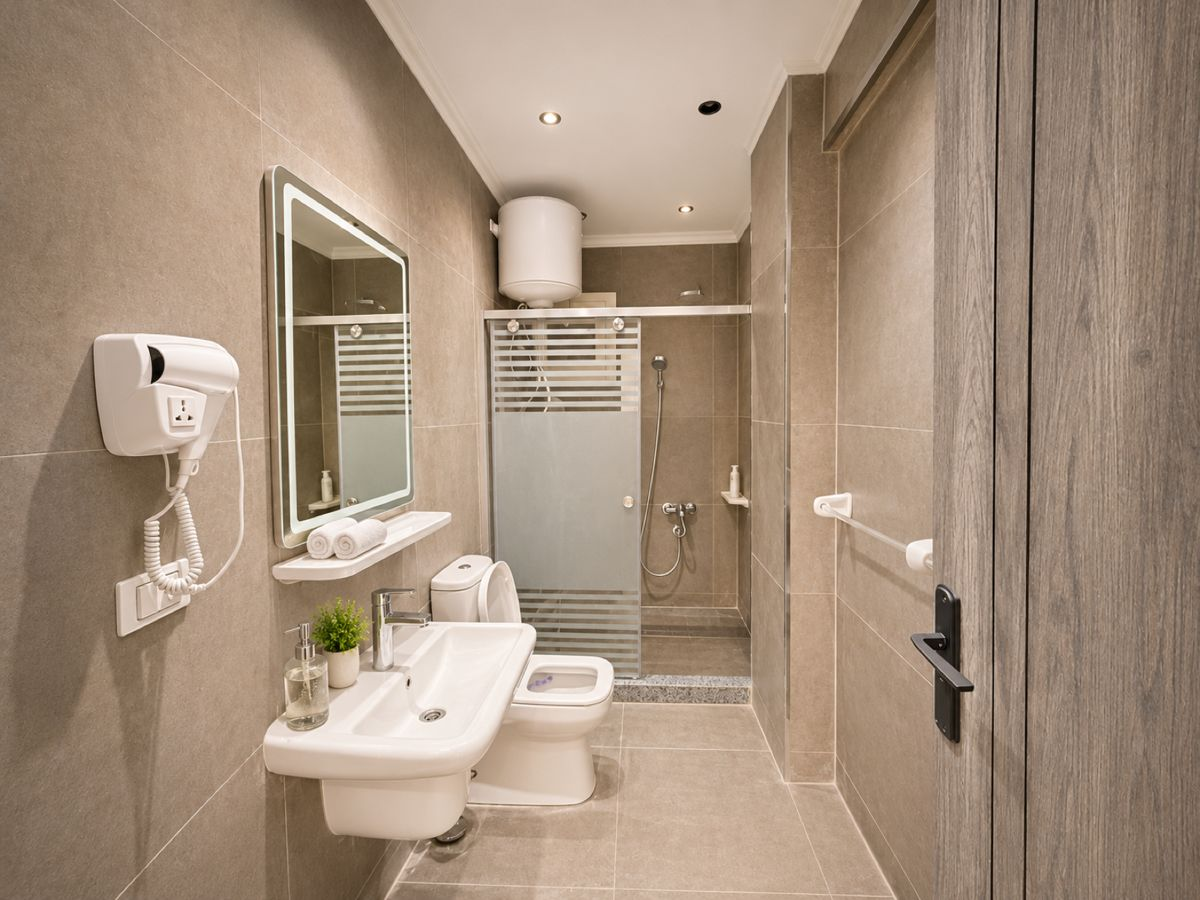
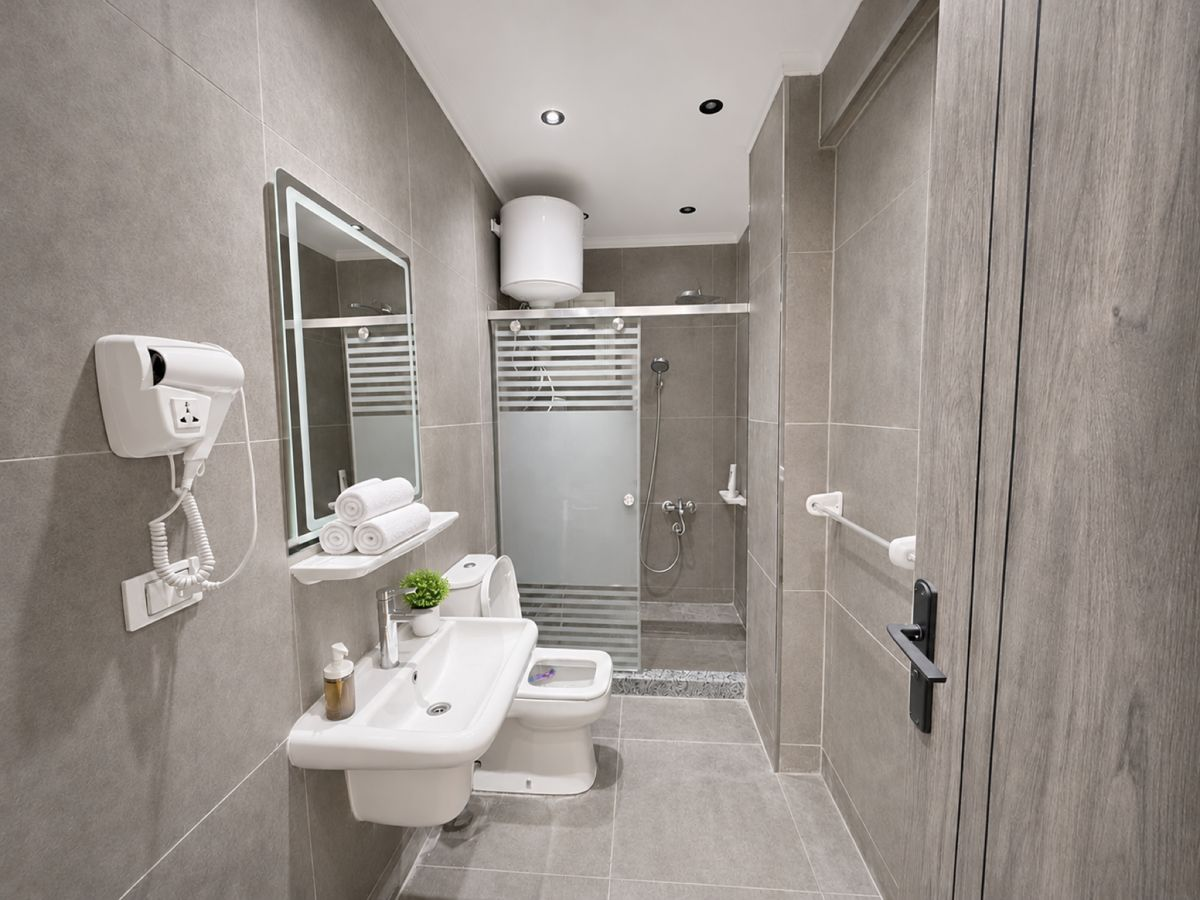
Four apartments by layout, guests up to 20, breakfast option

diff --git a/index.html b/index.html
@@ -66,6 +66,9 @@ a:focus-visible,button:focus-visible{outline:2px solid var(--acc);outline-offset
 .tabs button.on{background:var(--ink);color:#fff}
 .gal2{display:flex;gap:10px;overflow-x:auto;scroll-snap-type:x mandatory;padding:0 20px;scroll-padding:0 20px;scrollbar-width:none;transition:opacity .25s ease}
 .gal2 img{flex:0 0 86%;width:86%;height:auto;aspect-ratio:4/5;border-radius:18px;scroll-snap-align:start;outline:1px solid rgba(0,0,0,.07);outline-offset:-1px}
+.bf{display:flex;align-items:center;gap:12px;margin-top:16px;padding:15px 16px;background:var(--sand);border-radius:16px;font-size:14px;font-weight:500}
+.bf input{width:22px;height:22px;accent-color:var(--acc);flex:none;margin:0}
+.bf b{margin-inline-start:auto;font-weight:600;white-space:nowrap}
 .cnt{display:flex;justify-content:space-between;font-size:13px;color:var(--mut);padding:12px 20px 0}
 .atx{padding:16px 20px 0}
 .atx h3{font-family:Fraunces,serif;font-weight:500;font-size:26px}
@@ -127,7 +130,7 @@ a:focus-visible,button:focus-visible{outline:2px solid var(--acc);outline-offset
     <div class="dates">
       <label><span data-t="ci"></span><input type="date" id="ci"></label>
       <label><span data-t="co"></span><input type="date" id="co"></label>
-      <label><span data-t="gs"></span><select id="gs"><option>1</option><option selected>2</option><option>3</option><option>4</option><option>5</option></select></label>
+      <label><span data-t="gs"></span><select id="gs"></select></label>
     </div>
     <a class="btn wa wal" data-t="book" href="#"></a>
     <p class="note" data-t="note"></p>
@@ -150,11 +153,12 @@ a:focus-visible,button:focus-visible{outline:2px solid var(--acc);outline-offset
 
 <section class="apt" id="apt">
   <h2 class="rv" data-t="h2b"></h2>
-  <div class="tabs" id="tabs"><button data-i="0" data-t="tab0"></button><button data-i="1" data-t="tab1"></button><button data-i="2" data-t="tab2"></button></div>
+  <div class="tabs" id="tabs"><button data-i="0" data-t="tab0"></button><button data-i="1" data-t="tab1"></button><button data-i="2" data-t="tab2"></button><button data-i="3" data-t="tab3"></button></div>
   <div class="gal2" id="gal"></div>
   <div class="cnt"><span id="cnt"></span><span data-t="swipe"></span></div>
   <div class="atx"><h3 id="ct"></h3><div class="facts" id="cf"></div>
     <div class="pr"><div><b id="cp"></b> <span class="mut" data-t="pn"></span></div><a class="btn wal" id="cb" data-t="chk" href="#"></a></div>
+    <label class="bf"><input type="checkbox" id="bfc"><span data-t="bfl"></span><b id="bfp"></b></label>
   </div>
 </section>
 
@@ -182,7 +186,7 @@ a:focus-visible,button:focus-visible{outline:2px solid var(--acc);outline-offset
   <p class="mut rv" data-t="langs"></p>
   <a class="btn wa wal rv" data-t="book" href="#"></a>
   <a class="tel" href="tel:+201556557076" dir="ltr">+20 155 655 7076</a>
-  <div class="pic"><img data-s="g_b" alt=""></div>
+  <div class="pic"><img data-s="m_gost" alt=""></div>
   <footer class="foot">
     <div class="logo">Best Apart<small>CAIRO</small></div>
     <div data-t="addr"></div>
@@ -196,22 +200,22 @@ a:focus-visible,button:focus-visible{outline:2px solid var(--acc);outline-offset
 
 <script>
 const T={en:{h1:'Family apartments in New Cairo',n1:'from $45',n1s:'per night',n2:'up to 5',n2s:'guests',n3:'30 min',n3s:'to airport',ci:'Check-in',co:'Check-out',gs:'Guests',book:'Book on WhatsApp',note:'Pay on arrival · free cancellation',
-h2a:'Everything a family needs is already here',m_wifi:'Free high-speed Wi-Fi',m_kit:'Full kitchen',m_wash:'Washing machine',m_ac:'Air conditioning',m_bath:'Two bathrooms in 2BR',m_tv:'TV',m_safe:'Safe',m_mat:'Prayer mat',m_iron:'Iron and hair dryer',m_balc:'Balcony in 2BR',tab0:'One Bedroom',tab1:'Two Bedroom',tab2:'Two Bedroom, layout 2',swipe:'Swipe for more photos',onmap:'On the map',
+h2a:'Everything a family needs is already here',m_wifi:'Free high-speed Wi-Fi',m_kit:'Full kitchen',m_wash:'Washing machine',m_ac:'Air conditioning',m_bath:'Two bathrooms in 2BR',m_tv:'Smart TV',m_safe:'Safe',m_mat:'Prayer mat',m_iron:'Iron and hair dryer',m_balc:'Balcony in 2BR',tab0:'One Bedroom',tab1:'One Bedroom 2',tab2:'Two Bedroom · Mosque view',tab3:'Two Bedroom · Courtyard view',bfl:'Add breakfast, $10 per person',bfs:'breakfast for',mb:'Breakfast',yes:'yes',swipe:'Swipe for more photos',onmap:'On the map',
 h2b:'Choose your apartment',pn:'per night',chk:'Check dates',
 h2c:'30 minutes from Cairo airport',gm:'Open in Google Maps',min:'min',d1:'Cairo airport',d2:'Pyramids',d3:'Reception',mall:'Right next to us, plus a market',
 h2d:'Pay when you arrive',c1:'Free cancellation',c1s:'No penalty, any time',c2:'No deposit',c2s:'No prepayment online',r1:'Minimum stay',r1v:'1 night',r2:'A week or longer',r2v:'10% off',r3:'Children',r3v:'welcome',r4:'Breakfast',r4v:'$10 per person',r5:'Smoking',r5v:'not allowed in the rooms',
 h2e:'Tell us your dates, we reply in minutes',langs:'We speak Arabic, English and Chinese',addr:'New Cairo, Cairo, Egypt',call:'Call us',lic:'Licensed for short-term rentals',
-one:'One Bedroom',two:'Two Bedroom',two2:'Two Bedroom, layout 2',x1:['up to 3 guests','1 bedroom','1 bathroom','kitchen'],x2:['up to 5 guests','2 bedrooms','2 bathrooms','kitchen','balcony'],
+one:'One Bedroom',oneb:'One Bedroom 2',two:'Two Bedroom, mosque view',two2:'Two Bedroom, courtyard view',x1:['up to 3 guests','1 bedroom','1 bathroom','kitchen'],x2:['up to 5 guests','2 bedrooms','2 bathrooms','kitchen','balcony'],
 m0:'Hello, I would like to book an apartment at Best Apart Cairo.',mci:'Check-in',mco:'Check-out',mg:'Guests',ma:'Apartment'},
 ar:{h1:'شقق عائلية في القاهرة الجديدة',n1:'من 45$',n1s:'لليلة',n2:'حتى 5',n2s:'ضيوف',n3:'30 دقيقة',n3s:'إلى المطار',ci:'الوصول',co:'المغادرة',gs:'الضيوف',book:'احجز عبر واتساب',note:'الدفع عند الوصول · إلغاء مجاني',
-h2a:'كل ما تحتاجه العائلة موجود هنا',m_wifi:'واي فاي مجاني عالي السرعة',m_kit:'مطبخ كامل',m_wash:'غسالة ملابس',m_ac:'تكييف',m_bath:'حمّامان في شقة الغرفتين',m_tv:'تلفاز',m_safe:'خزنة',m_mat:'سجادة صلاة',m_iron:'مكواة ومجفف شعر',m_balc:'شرفة في شقة الغرفتين',tab0:'غرفة نوم',tab1:'غرفتا نوم',tab2:'غرفتا نوم، تصميم 2',swipe:'اسحب لمزيد من الصور',onmap:'على الخريطة',
+h2a:'كل ما تحتاجه العائلة موجود هنا',m_wifi:'واي فاي مجاني عالي السرعة',m_kit:'مطبخ كامل',m_wash:'غسالة ملابس',m_ac:'تكييف',m_bath:'حمّامان في شقة الغرفتين',m_tv:'تلفاز ذكي',m_safe:'خزنة',m_mat:'سجادة صلاة',m_iron:'مكواة ومجفف شعر',m_balc:'شرفة في شقة الغرفتين',tab0:'غرفة نوم',tab1:'غرفة نوم 2',tab2:'غرفتا نوم · إطلالة على المسجد',tab3:'غرفتا نوم · إطلالة على الفناء',bfl:'أضف الإفطار، 10$ للشخص',bfs:'إفطار لعدد',mb:'الإفطار',yes:'نعم',swipe:'اسحب لمزيد من الصور',onmap:'على الخريطة',
 h2b:'اختر شقتك',pn:'لليلة',chk:'تحقق من التواريخ',
 h2c:'30 دقيقة من مطار القاهرة',gm:'افتح في خرائط جوجل',min:'دقيقة',d1:'مطار القاهرة',d2:'الأهرامات',d3:'الاستقبال',mall:'بجوارنا مباشرة، مع سوق قريب',
 h2d:'ادفع عند الوصول',c1:'إلغاء مجاني',c1s:'بدون غرامة في أي وقت',c2:'بدون تأمين',c2s:'بدون دفع مسبق عبر الإنترنت',r1:'أقل مدة إقامة',r1v:'ليلة واحدة',r2:'أسبوع أو أكثر',r2v:'خصم 10%',r3:'الأطفال',r3v:'مرحّب بهم',r4:'الإفطار',r4v:'10$ للشخص',r5:'التدخين',r5v:'ممنوع داخل الغرف',
 h2e:'أرسل لنا تواريخك ونرد خلال دقائق',langs:'نتحدث العربية والإنجليزية والصينية',addr:'القاهرة الجديدة، القاهرة، مصر',call:'اتصل بنا',lic:'مرخّص للإيجار قصير المدة',
-one:'غرفة نوم',two:'غرفتا نوم',two2:'غرفتا نوم، تصميم 2',x1:['حتى 3 ضيوف','غرفة نوم','حمّام','مطبخ'],x2:['حتى 5 ضيوف','غرفتا نوم','حمّامان','مطبخ','شرفة'],
+one:'غرفة نوم',oneb:'غرفة نوم 2',two:'غرفتا نوم، إطلالة على المسجد',two2:'غرفتا نوم، إطلالة على الفناء',x1:['حتى 3 ضيوف','غرفة نوم','حمّام','مطبخ'],x2:['حتى 5 ضيوف','غرفتا نوم','حمّامان','مطبخ','شرفة'],
 m0:'مرحباً، أود حجز شقة في Best Apart Cairo.',mci:'الوصول',mco:'المغادرة',mg:'الضيوف',ma:'الشقة'}};
-const SRC={balkon:'img/balkon.jpg',fasad2:'img/fasad2.jpg',finiki:'img/finiki.jpg',g_1br:'img/g_1br.jpg',g_b:'img/g_b.jpg',g_c:'img/g_c.jpg',hero:'img/hero.jpg',kuh:'img/kuh.jpg',s_1br:'img/s_1br.jpg',seif:'img/seif.jpg',spal:'img/spal.jpg',spal2:'img/spal2.jpg',van:'img/van.jpg'};document.querySelectorAll('img[data-s]').forEach(i=>i.src=SRC[i.dataset.s]);
+const SRC={balkon:'img/balkon.jpg',fasad2:'img/fasad2.jpg',finiki:'img/finiki.jpg',g_1br:'img/g_1br.jpg',g_c:'img/g_c.jpg',hero:'img/hero.jpg',kuh:'img/kuh.jpg',s_1br:'img/s_1br.jpg',seif:'img/seif.jpg',spal:'img/spal.jpg',spal2:'img/spal2.jpg',van:'img/van.jpg',m_gost:'img/m_gost.jpg',m_vid:'img/m_vid.jpg',m_kuh:'img/m_kuh.jpg',m_twin:'img/m_twin.jpg',m_dbl:'img/m_dbl.jpg',m_van:'img/m_van.jpg',a_gost:'img/a_gost.jpg',a_kuh:'img/a_kuh.jpg',a_van:'img/a_van.jpg',a_spal:'img/a_spal.jpg',b_kuh:'img/b_kuh.jpg',b_van:'img/b_van.jpg'};document.querySelectorAll('img[data-s]').forEach(i=>i.src=SRC[i.dataset.s]);
 let L='en';const $=id=>document.getElementById(id);
 const clamp=(v,a=0,b=1)=>Math.min(b,Math.max(a,v));
 const prog=el=>{const r=el.getBoundingClientRect();return clamp(-r.top/(r.height-innerHeight))};
@@ -228,23 +232,26 @@ function drawFly(){
 }
 
 const apts=[
- {t:'one',x:'x1',p:'$45',g:['g_1br','s_1br','kuh','van']},
- {t:'two',x:'x2',p:'$85',g:['hero','spal','spal2','kuh','van','balkon']},
- {t:'two2',x:'x2',p:'$85',g:['g_b','g_c','spal2','spal','van','balkon']}];
-const gal=$('gal'),tabs=[...document.querySelectorAll('#tabs button')];let cur=1;
+ {t:'one',x:'x1',p:45,g:['a_gost','a_spal','a_kuh','a_van']},
+ {t:'oneb',x:'x1',p:45,g:['g_1br','s_1br','b_kuh','b_van']},
+ {t:'two',x:'x2',p:85,g:['m_gost','m_twin','m_dbl','m_kuh','m_van','m_vid']},
+ {t:'two2',x:'x2',p:85,g:['hero','g_c','spal','spal2','kuh','van','balkon']}];
+const gal=$('gal'),tabs=[...document.querySelectorAll('#tabs button')];let cur=2;
 function cnt(){const w=gal.firstChild?gal.firstChild.offsetWidth+10:1,i=Math.min(apts[cur].g.length-1,Math.round(Math.abs(gal.scrollLeft)/w));$('cnt').textContent=(i+1)+' / '+apts[cur].g.length}
 function fillCard(){const f=apts[cur],t=T[L];
   gal.innerHTML=f.g.map(n=>`<img src="${SRC[n]}" alt="">`).join('');gal.scrollLeft=0;
-  $('ct').textContent=t[f.t];$('cf').innerHTML=t[f.x].map(x=>`<span>${x}</span>`).join('');$('cp').textContent=f.p;
+  $('ct').textContent=t[f.t];$('cf').innerHTML=t[f.x].map(x=>`<span>${x}</span>`).join('');$('cp').textContent='$'+f.p;bf();
   tabs.forEach(c=>c.classList.toggle('on',+c.dataset.i===cur));cnt();links();}
 gal.addEventListener('scroll',cnt,{passive:true});
 tabs.forEach(c=>c.onclick=()=>{cur=+c.dataset.i;gal.style.opacity=0;setTimeout(()=>{fillCard();gal.style.opacity=1},calm?0:160)});
 
 const ci=$('ci'),co=$('co'),gs=$('gs'),iso=d=>d.toISOString().slice(0,10),day=864e5;
-ci.min=iso(new Date());co.min=iso(new Date(Date.now()+day));
-ci.onchange=()=>{if(ci.value){const n=iso(new Date(new Date(ci.value).getTime()+day));co.min=n;if(!co.value||co.value<n)co.value=n}links()};co.onchange=gs.onchange=()=>links();
+gs.innerHTML=Array.from({length:20},(_,i)=>`<option${i===1?' selected':''}>${i+1}</option>`).join('');ci.min=iso(new Date());co.min=iso(new Date(Date.now()+day));
+ci.onchange=()=>{if(ci.value){const n=iso(new Date(new Date(ci.value).getTime()+day));co.min=n;if(!co.value||co.value<n)co.value=n}links()};co.onchange=()=>links();gs.onchange=()=>{bf();links()};
+const bfc=$('bfc');function bf(){$('bfp').textContent=bfc.checked?'+ $'+(10*gs.value):''}
+bfc.onchange=()=>{bf();links()};
 function links(){const t=T[L];let m=t.m0;
-  if(ci.value)m+='\n'+t.mci+': '+ci.value;if(co.value)m+='\n'+t.mco+': '+co.value;m+='\n'+t.mg+': '+gs.value;
+  if(ci.value)m+='\n'+t.mci+': '+ci.value;if(co.value)m+='\n'+t.mco+': '+co.value;m+='\n'+t.mg+': '+gs.value;if(bfc.checked)m+='\n'+t.mb+': '+t.yes;
   document.querySelectorAll('.wal').forEach(a=>{let x=m;if(a.id==='cb')x+='\n'+t.ma+': '+t[apts[cur].t];a.href='https://wa.me/201556557076?text='+encodeURIComponent(x)})}
 
 function setLang(l){L=l;document.documentElement.lang=l;document.documentElement.dir=l==='ar'?'rtl':'ltr';
